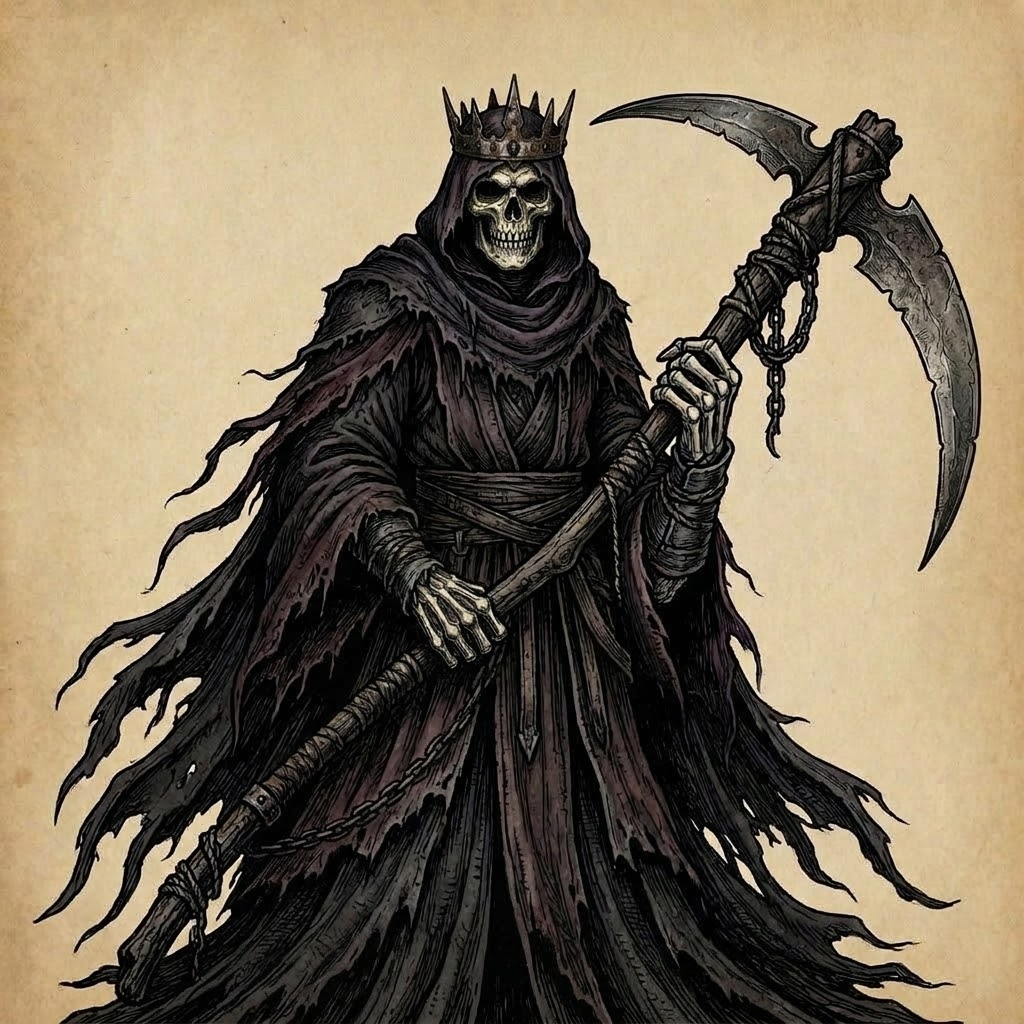
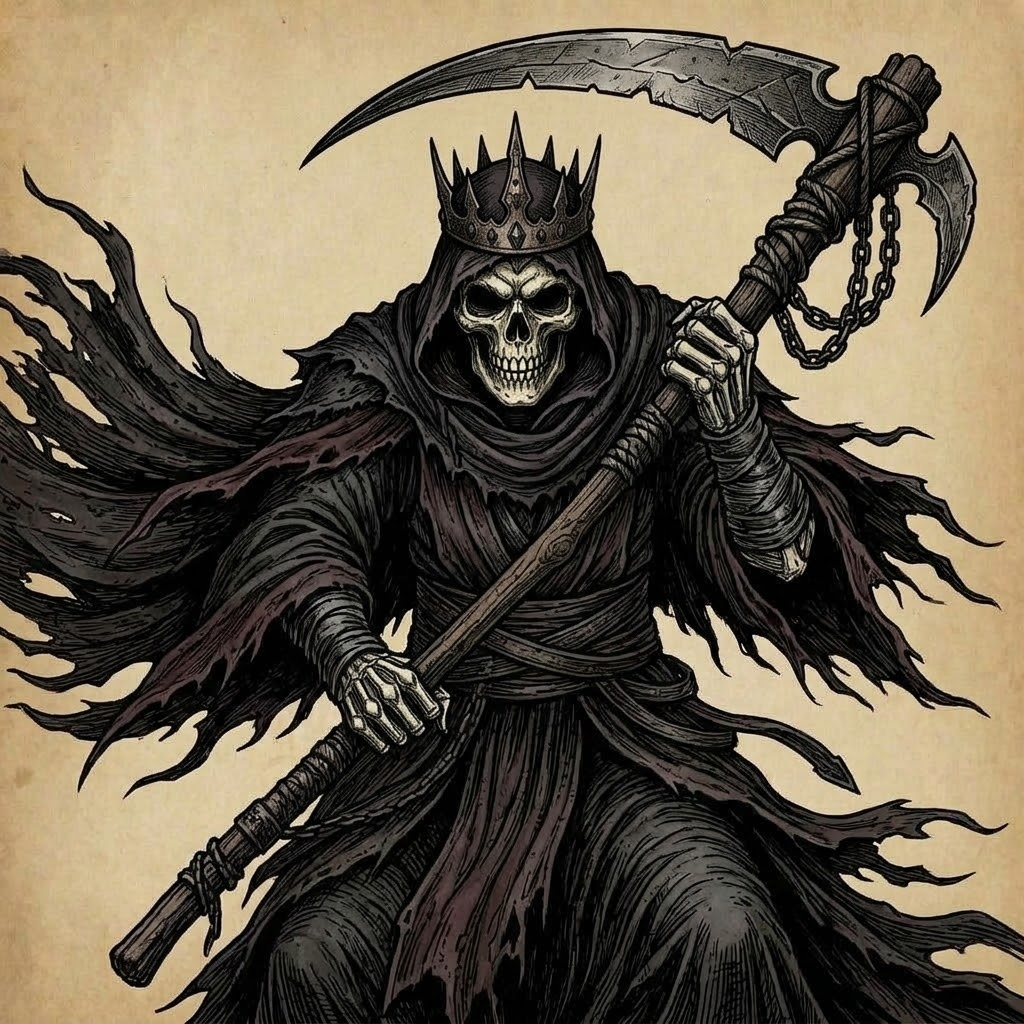
Update Death Lord and Dark Knight portraits

diff --git a/game.js b/game.js
@@ -1123,11 +1123,11 @@ const avKey=(S,p)=>{if(p===0)return (S.hero&&S.hero[0])||MY_HERO||'c';if(MODE=='
 const HD_PORTRAITS={
   c:'corrupted_merchant.jpg?v=20261116_t21',
   p:'plague_doctor.jpg?v=20261116_t21',
-  n:'dark_knight.jpg?v=20261116_t74',
+  n:'dark_knight.jpg?v=20261116_t78',
   a:'withered_queen.jpg?v=20261116_t77',
   s:'crimson_oracle.jpg?v=20261116_t21',
   e:'frost_giant.jpg?v=20261116_t75',
-  m:'cursed_king.jpg?v=20261116_t77',
+  m:'cursed_king.jpg?v=20261116_t78',
   w:'necromancer.jpg?v=20261116_t21',
   l:'werewolf.jpg?v=20261116_t21',
   v:'vampire.jpg?v=20261116_t39',
@@ -1466,7 +1466,7 @@ function execAlchSwap(cid){
 }
 function pick(v){if(P&&P.hp==='u'){const id=v;P=null;return execSwapDeckHeroPower(0,id)}if(P&&P.hp==='a'){const id=v;P=null;return execAlchSwap(id)}P.pk.push(v);if(P.pk.length==P.ks.length)doPlay(P.id,P.pk);else R()}
 function startJoker(id){const ks=NEED[id]||[];if(ks.length){P={id,ks,pk:[]};R()}else doPlay(id,[])}
-const HERO_FOCUS={c:'44% 28%',p:'56% 24%',n:'56% 24%',a:'50% 24%',s:'48% 25%',e:'52% 28%',m:'49% 22%',w:'45% 23%',l:'68% 28%',v:'50% 25%'};
+const HERO_FOCUS={c:'44% 28%',p:'56% 24%',n:'64% 25%',a:'50% 24%',s:'48% 25%',e:'52% 28%',m:'50% 30%',w:'45% 23%',l:'68% 28%',v:'50% 25%'};
 function chooseHero(onPick,onCancel){
   lock=true;
   const cards=HEROES.filter(h=>!h.bossOnly).map(h=>{const dl=h.desc.length,dc=dl<=55?'hpc-desc-lg':dl<=105?'hpc-desc-md':'hpc-desc-sm';return `<button class="hero-pick-card${MY_HERO===h.id?' sel':''}" data-pick-hero="${h.id}">

diff --git a/index.html b/index.html
@@ -66,6 +66,6 @@
 <script src="audio_data.js?v=20261114_tavern1"></script>
 <script src="hd.js?v=20261115_hs11"></script>
 <script src="d20_canvas.js?v=20261115_mobperf1"></script>
-<script src="game.js?v=20261116_t77"></script>
+<script src="game.js?v=20261116_t78"></script>
 </body>
 </html>
